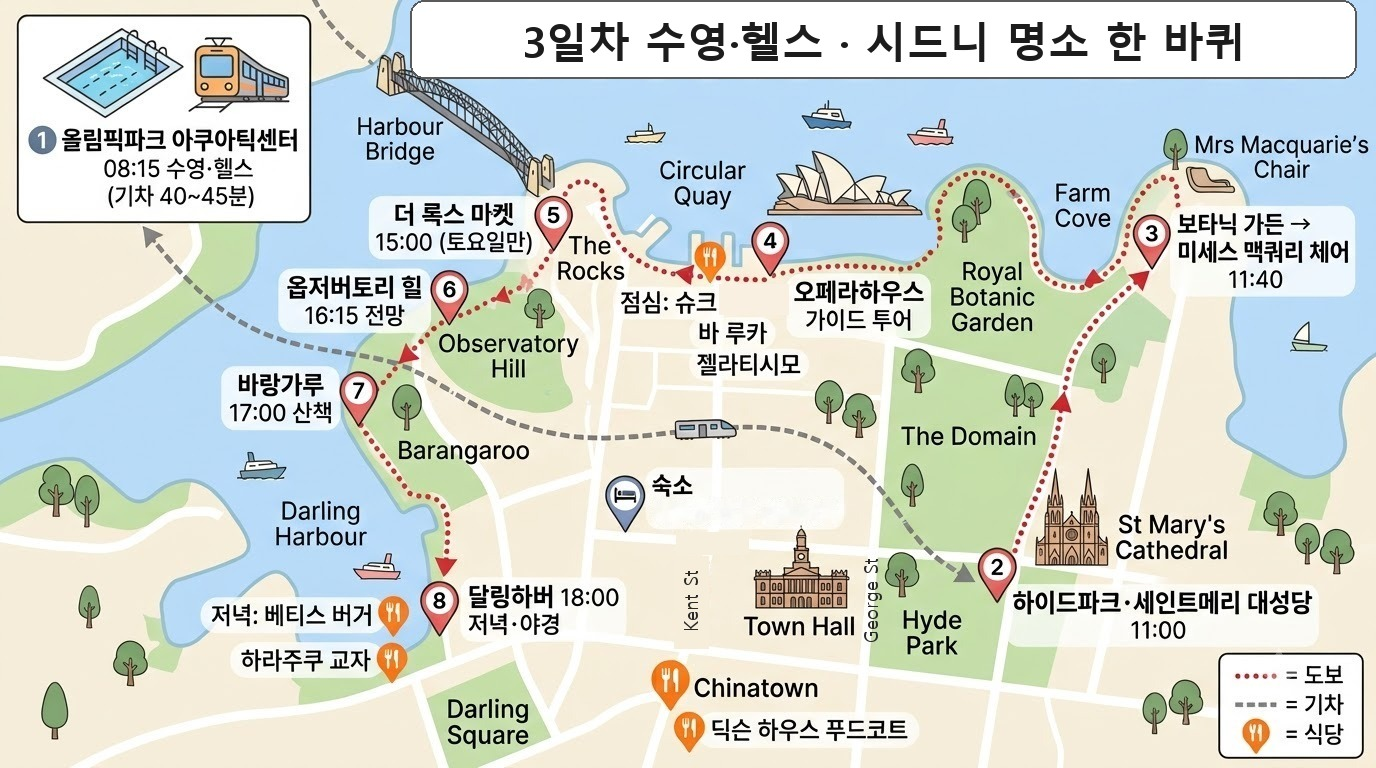
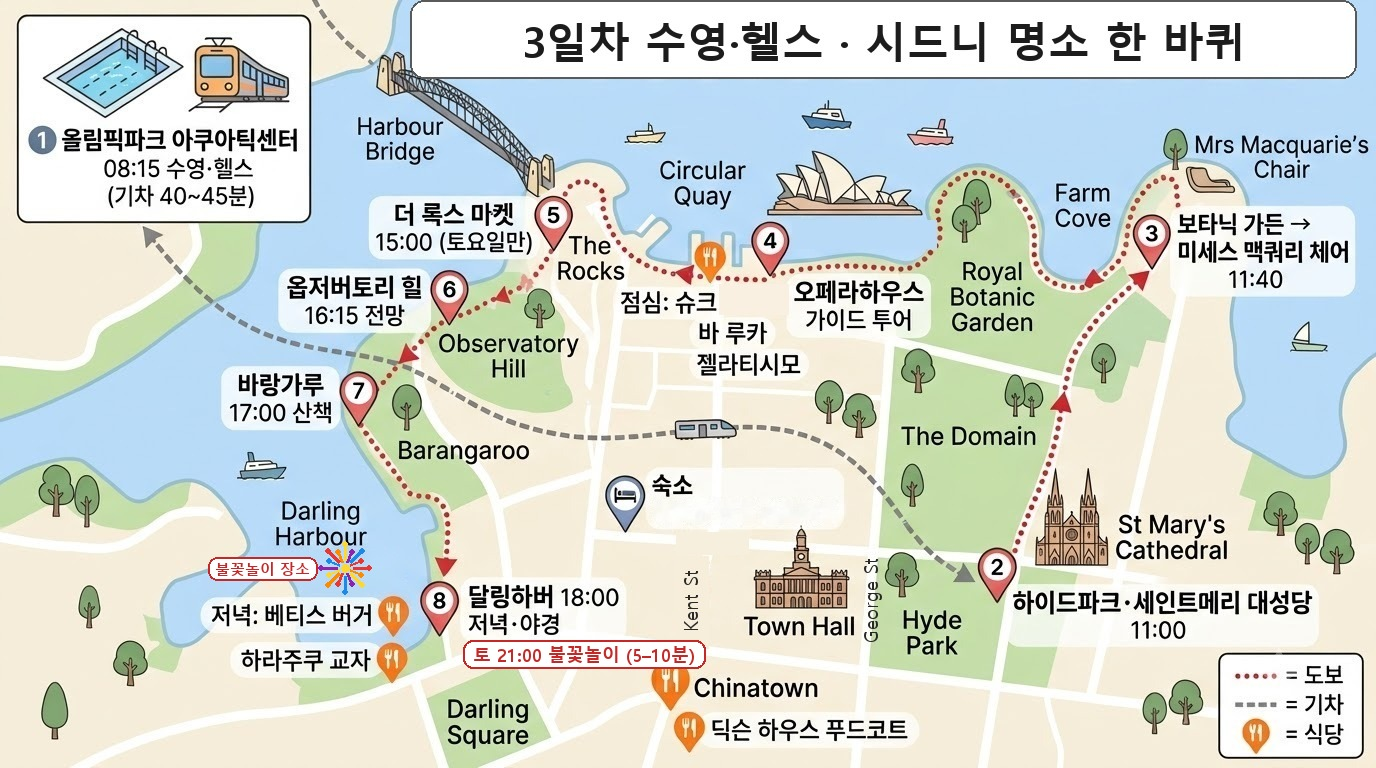
Add University of Sydney to day 4 and Darling Harbour fireworks to day 3
Day 4 goes Bondi → University of Sydney (Chau Chak Wing Museum, Quadrangle) →
Circular Quay without the afternoon hotel stop. Day 3 ends with the Saturday
21:00 Darling Harbour fireworks. Maps redrawn with the new stop and the
fireworks spot; transport rows and sources added.

Changed region(s): [[0.3438, 0.8125, 0.5312, 0.875], [0.1562, 0.7188, 0.3125, 0.7812]]

diff --git a/src/data.js b/src/data.js
@@ -59,11 +59,11 @@ export const TEMPLATES = {
   city: {
     id: 'city',
     tag: '시내 명소',
-    title: '올림픽파크 수영·헬스, 보타닉 가든·오페라하우스·더 록스 마켓',
+    title: '올림픽파크 수영·헬스, 보타닉 가든·오페라하우스·더 록스 마켓, 달링하버 불꽃놀이',
     summary:
-      '07:00에 일어나 올림픽파크에서 수영·헬스를 하고, 11시부터 유명 관광지를 걸어서 잇습니다. 더 록스 마켓은 토·일에만 열립니다.',
+      '07:00에 일어나 올림픽파크에서 수영·헬스를 하고, 11시부터 유명 관광지를 걸어서 잇습니다. 더 록스 마켓은 토·일에만 열립니다. 토요일 21:00에는 달링하버 불꽃놀이(5~10분)가 있어 저녁 뒤 보고 들어갑니다.',
     map: '/maps/day3.jpg',
-    mapAlt: '시내 명소일 동선: 올림픽파크 → 하이드파크·세인트메리 → 보타닉 가든 → 오페라하우스 → 더 록스 마켓 → 옵저버토리 힐 → 바랑가루 → 달링하버',
+    mapAlt: '시내 명소일 동선: 올림픽파크 → 하이드파크·세인트메리 → 보타닉 가든 → 오페라하우스 → 더 록스 마켓 → 옵저버토리 힐 → 바랑가루 → 달링하버 저녁·불꽃놀이',
     items: [
       ['07:00–07:30', '기상·간단한 아침', '—', '수영복·수건·운동화'],
       ['07:30–08:15', '숙소 → 올림픽파크', '기차 Town Hall → Lidcombe 환승 → Olympic Park', '총 40–45분. 주말 배차 간격 확인'],
@@ -78,8 +78,11 @@ export const TEMPLATES = {
       ['15:00–16:15', '쇼핑 ⑥ 더 록스 마켓과 골목 산책', '도보 5분', '수공예품·먹거리. 토·일만', 'The Rocks Markets'],
       ['16:15–17:00', '옵저버토리 힐', '도보 약 10분', '하버브리지 전망', 'Observatory Hill'],
       ['17:00–18:00', '바랑가루 산책', '도보 약 10분', '', 'Barangaroo Reserve'],
-      ['18:00–19:30', '달링하버 저녁·야경', '도보 약 15분', ''],
-      ['20:00', '숙소', '도보 약 10분', ''],
+      ['18:00–19:30', '달링하버 저녁', '도보 약 15분', '식당 추천 참고'],
+      ['19:30–20:30', '달링하버 야경 산책, 디저트·카페', '도보', '숙소가 도보 10분이라 잠깐 들렀다 와도 됨'],
+      ['20:30–21:00', '불꽃놀이 자리 잡기', '도보', '코클 베이 물가나 파이어몬트 다리 위. 토요일 밤이라 일찍 가기', 'Cockle Bay Wharf'],
+      ['21:00–21:10', '달링하버 불꽃놀이', '—', '토요일 21:00, 5~10분. 날짜·취소 여부는 공식 페이지 확인'],
+      ['21:10–21:30', '숙소', '도보 10–15분', ''],
     ],
     rain: {
       note: '올림픽파크 수영장은 실내라 그대로. 보타닉 가든은 주립미술관으로, 옵저버토리 힐·바랑가루는 MCA로 바꿉니다.',
@@ -95,31 +98,35 @@ export const TEMPLATES = {
         ['15:00–16:00', '더 록스 마켓 (천막 아래, 토·일만)', '같음'],
         ['16:00–17:00', 'MCA 현대미술관 (폐관 시간 확인)', '옵저버토리 힐·바랑가루'],
         ['17:30–', '기차로 돌아와 차이나타운 저녁', '달링하버'],
+        ['21:00', '달링하버 불꽃놀이 (약한 비면 진행, 날씨 나쁘면 취소)', '같음'],
       ],
     },
   },
   bondi: {
     id: 'bondi',
     tag: '본다이',
-    title: '브론테→본다이 코스탈 워크, 본다이 마켓, 맨리 페리 선셋',
+    title: '브론테→본다이 코스탈 워크, 본다이 마켓, 시드니 대학교, 맨리 페리 선셋',
     summary:
-      '해안길을 약 1시간 걷고 10시에 여는 본다이 마켓에 맞춰 도착합니다(마켓은 일요일만). 저녁에는 맨리 페리로 하버 선셋을 봅니다. 다음 날 이른 투어가 있으면 20시에는 숙소로.',
+      '해안길을 약 1시간 걷고 10시에 여는 본다이 마켓(일요일만)과 본다이 비치를 들른 뒤, 숙소에 들르지 않고 시드니 대학교를 거쳐 서큘러키에서 맨리 페리를 탑니다. 다음 날 이른 투어가 있으면 20시에는 숙소로.',
     map: '/maps/day4.jpg',
-    mapAlt: '본다이일 동선: 브론테 → 본다이 코스탈 워크 → 본다이 마켓 → 맨리 페리 선셋',
+    mapAlt: '본다이일 동선: 브론테 → 본다이 코스탈 워크 → 본다이 마켓·비치 → 시드니 대학교 → 서큘러키 → 맨리 페리 선셋',
     items: [
       ['07:30–08:30', '기상·아침', '—', '선크림·모자·물, 편한 운동화'],
       ['08:30–09:15', '숙소 → 브론테 비치', '기차 Town Hall → Bondi Junction + 버스', '약 40–45분', 'Bronte Beach'],
       ['09:15–10:15', '코스탈 워크: 브론테 → 타마라마 → 본다이', '도보 약 1시간', '해안 절벽길', 'Bondi to Bronte Coastal Walk'],
       ['10:15–12:00', '본다이 마켓', '도보', '일요일 10:00–16:00, 본다이 공립학교 운동장', 'Bondi Markets'],
       ['12:00–13:00', '본다이 점심', '도보', '식당 추천 참고'],
-      ['13:00–15:00', '본다이 비치 휴식, 아이스버그 전망', '도보', '해수욕은 빨간·노란 깃발 사이에서만', 'Bondi Icebergs'],
-      ['15:00–15:45', '본다이 → 숙소', '버스 + 기차', '약 40–45분'],
-      ['15:45–17:30', '숙소 휴식', '—', '다음 날 투어가 있으면 짐 미리 싸기'],
-      ['17:30–17:50', '숙소 → 서큘러키', '기차 Town Hall → Circular Quay', '약 10–15분'],
+      ['13:00–14:15', '본다이 비치 휴식, 아이스버그 전망', '도보', '해수욕은 빨간·노란 깃발 사이에서만', 'Bondi Icebergs'],
+      ['14:15–15:00', '본다이 → 시드니 대학교', '버스 → Bondi Junction, 기차 → Central, 도보 15분', '약 45분. 숙소에 들르지 않음'],
+      ['15:00–16:00', '시드니 대학교 차우 착 윙 박물관', '—', '무료, 주말 12:00–16:00', 'Chau Chak Wing Museum'],
+      ['16:00–16:45', '쿼드랭글(본관)·피셔 도서관 주변 캠퍼스 산책', '도보', '사암 건물과 장미창이 사진 명소', 'University of Sydney Quadrangle'],
+      ['16:45–17:30', '시드니 대학교 → 서큘러키', '버스 또는 도보 → Central, 기차 → Circular Quay', '약 35–45분'],
+      ['17:30–17:50', '서큘러키 도착, 간식·화장실', '—', '페리 시간 확인'],
       ['17:50–18:15', '맨리 페리(서큘러키 3번 선착장)', '페리 20–25분', '편도 약 A$7, 15–20분 간격', 'Circular Quay Wharf 3'],
       ['18:15–19:10', '맨리 비치 산책, 맨리에서 저녁', '도보 5분', '피시앤칩스 등', 'Manly Beach'],
       ['19:10–19:40', '돌아오는 페리에서 선셋', '페리 20–25분', '일몰 무렵 오페라하우스·하버브리지가 한 화면에. 야외 좌석'],
       ['19:40–20:00', '서큘러키 → 숙소', '기차 + 도보', ''],
+      ['20:00–21:30', '다음 날 일정 준비', '—', '투어가 있으면 짐 싸기'],
       ['21:30', '취침', '—', ''],
     ],
     rain: {
@@ -286,6 +293,8 @@ export const TRANSPORT = [
   ['서큘러키 ↔ 숙소', '기차(Town Hall) + 도보', '10–15분'],
   ['세인트메리 → 오페라하우스(보타닉 가든 경유)', '도보', '20분'],
   ['더 록스 → 바랑가루 → 달링하버', '도보', '30분'],
+  ['본다이 → 시드니 대학교', '버스 → Bondi Junction, 기차 → Central, 도보', '약 45분'],
+  ['시드니 대학교 → 서큘러키', '버스 또는 도보 → Central, 기차 → Circular Quay', '약 35–45분'],
 ];
 
 export const RAIN_SPOTS = [
@@ -320,6 +329,8 @@ export const SOURCES = [
   ['기념품 쇼핑리스트 (sjsn6313)', 'https://blog.naver.com/sjsn6313/224402458916'],
   ['맨리 페리 후기·노선 정리 (chohammm)', 'https://blog.naver.com/chohammm/224123702343'],
   ['맨리 페리 선셋 후기 (nomadzin)', 'https://blog.naver.com/nomadzin/224434970106'],
+  ['차우 착 윙 박물관 방문 안내 (시드니 대학교)', 'https://www.sydney.edu.au/museum/whats-on/visit.html'],
+  ['Fireworks at Darling Harbour (공식)', 'https://www.darlingharbour.com/whats-on/campaigns/fireworks'],
 ];
 
 export const EXPENSE_CATEGORIES = ['식비', '교통', '쇼핑', '입장·투어', '숙소', '기타'];
